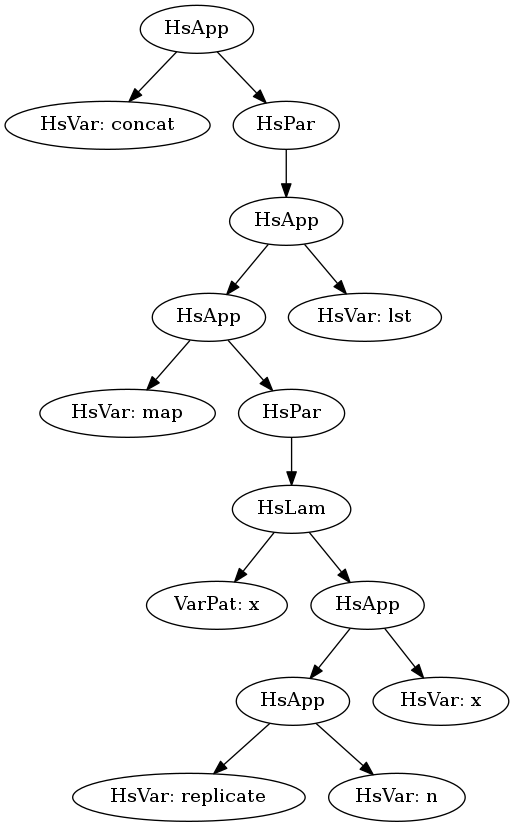
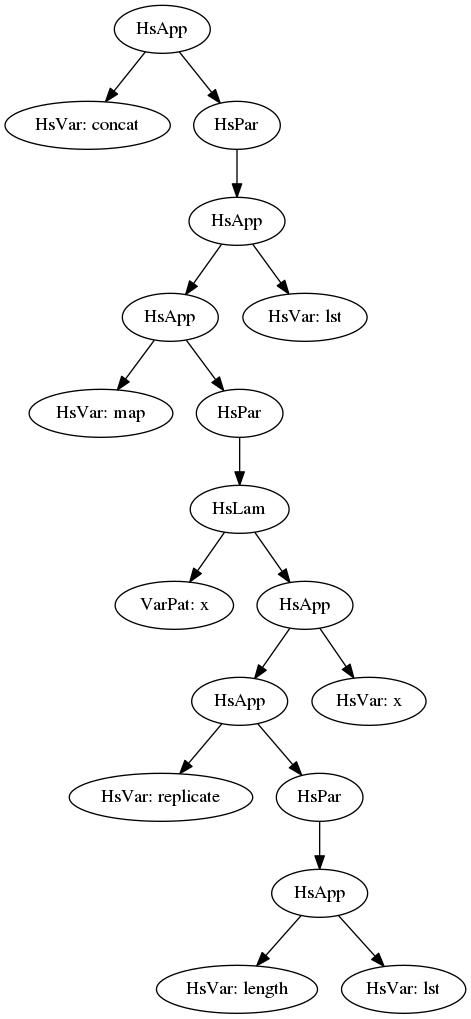
Finished draft of chapter 3. Editing in progress of chapter 2

diff --git a/thesis.tex b/thesis.tex
@@ -311,7 +311,7 @@ As was mentioned in Section~\ref{prog&Strafunski}, HaRe's dependencies have chan
 
 \subsection{The GHC API}
 
-Rather than being a monolithic executable, the Glasgow Haskell Compiler (GHC) is composed of several smaller components that each correspond to a separate compiler stage. The GHC executable consists of a lightweight main function that ties together the smaller components~\citep{ghcDesign}. These components are exposed to users  and this is what constitutes the GHC API.
+Rather than being a monolithic executable, the Glasgow Haskell Compiler (GHC) is composed of several smaller components that each correspond to a separate compiler stage. GHC's executable consists of a lightweight main function that ties together the smaller components~\citep{ghcDesign}. These components are exposed to users  and this is what constitutes the GHC API.
 
 \subsubsection{Compiler stages of GHC}\label{ghcStages}
 
@@ -324,33 +324,20 @@ Some of the major components and the order that GHC uses them are shown in figur
 	\caption{GHC Compiler stages. Adapted from \citep{ghcDesign}}
 \end{wrapfigure}
 
-The top level datatype for all of the GHC abstract syntax is \texttt{HsSyn}~\citep{ghcDesign}. \texttt{HsSyn} is parameterised by some identifier; each compiler stage produces a different type of identifier with the additional information that stage produces. For example the typechecker takes in an AST parameterised by \texttt{Name} and returns an AST parameterised by \texttt{Id} which is a \texttt{Name} with additional type information.
+The top level datatype for all of the GHC abstract syntax is \texttt{HsSyn} ~\citep{ghcDesign}. \texttt{HsSyn} is parameterised by some identifier type; each compiler stage produces a different type of identifier with the additional information that stage produces. For example the typechecker takes in an AST parameterised by \texttt{Name} and returns an AST parameterised by \texttt{Id} which is a \texttt{Name} with additional type information.
 
 \subsubsection{GHC's Name Types}
 
 There are five name types that GHC uses, they are:
 
 \begin{itemize}
-	\item \texttt{OccName}
-	\item \texttt{RdrName}
-	\item \texttt{Name}
-	\item \texttt{Id}
-	\item \texttt{Var}
+	\item \texttt{OccName} is the simplest type of name. It is just a wrapper around a \texttt{FastString} and an optional \texttt{NameSpace}. An \texttt{OccName} is contained in each of the other four identifier types.
+	\item \texttt{RdrName} names are produced by GHC's parser. \texttt{RdrName}s aren't much more that an \texttt{OccName} with optional module information if the source name has been qualified. 
+	\item \texttt{Name}s are produced by the renamer. A \texttt{Name} contains an \texttt{OccName} and a \texttt{Unique} that differentiates \texttt{Name}s that have the \texttt{OccName}. They have also had their scoping and binding resolved.
+	\item \texttt{Id} \& \texttt{Var} are the identifiers produced by the typechecker.\footnote{\texttt{Id} is just a synonym for \texttt{Var}.} These identifiers both contain a \texttt{Name}, a \texttt{Unique}, and a \texttt{Type} or \texttt{Kind}. An \texttt{Id} has a definite type whereas a \texttt{Var} may contain type variables that only have a kind.   
 \end{itemize}
 
-\texttt{OccName} is the simplest type of name it is really just a wrapper around a \texttt{FastString} and an optional \texttt{NameSpace}. It isn't produced by any the other four name types, rather an \texttt{OccName} is contained in each of the other names. An \texttt{RdrName} is the type that parameterises the parsed abstract  syntax. \texttt{RdrName}s aren't much more than an \texttt{OccName} and possibly a module name that indicates what module the name is defined in.
-
-The renamer produces an AST that uses \texttt{Name}s. \texttt{Name}s form the basis for the rest of the GHC's identifiers. A \texttt{Name} wraps \texttt{OccName} along with what type of name it is (user-defined or system-defined), where that \texttt{Name} is defined, and a unique integer so that names with the same \texttt{OccName} can be differentiated. 
-
-The other two name types, \texttt{Id} and \texttt{Var}, are actually synonyms.
-
-\begin{lstlisting}[frame=single,caption={Id's definition from Var.hs in~\cite{ghcHackage}}]
-type Id = Var
-\end{lstlisting}
-
-These types are essentially just typed \texttt{Name}s. The difference between \texttt{Id}s and \texttt{Var}s is that instead of a type \texttt{Vars} have a kind, and \texttt{Id}s contain more information about what sort of syntax element the \texttt{Id} refers to. 
-
-All these different types of names change throughout the compilation process but these names only parameterises the syntax tree, the shape~\comment{shape? form?} of the tree itself stays the same through compilation. 
+These identifier types change throughout the compilation process but these names only parameterise the syntax tree, the shape of the tree itself stays the same through compilation. 
 
 \subsubsection{GHC's syntax tree}
 GHC's abstract syntax is currently made up of over 90 data types. 
@@ -989,17 +976,66 @@ printEnumTree tree = let lst = toList (enumerate tree) in
 \end{lstlisting}
 
 \subsubsection{Example 3}
-Should use explode here
-\begin{lstlisting}
 
+The final case of this refactoring involves modifying both the result type and one (or more) of the parameters of the target function. This example will use the \texttt{explode} function from listing~\ref{explode} to refactor both its argument and result type to become \texttt{DList a}.
+
+\begin{lstlisting}[caption={The initial definition of \texttt{explode}},label=explode]
+explode :: [a] -> [a]
+explode lst = concat (map (\x -> replicate (length lst) x) lst)
 \end{lstlisting}
 
-\begin{itemize}
-\item print out the AST with the visualizer
-\item Go through the explode case when the first argument becomes DList
-\item Go through a case that is completely converted to DLists.
-\end{itemize}
+The abstract syntax tree of explode is in figure~\ref{explode}.
 
+\begin{figure}[!h]\label{explode}
+	\begin{center}
+		\includegraphics[scale=.5]{graphVis/Chapter3/explode.png}
+	\end{center}
+	\caption{\texttt{explodes}'s syntax tree}
+\end{figure}
+
+Much like the previous case where just the result type was modified the refactoring will start working on the syntax tree in a top down manner modifying the function definition to have the correct result type. The refactoring starts on the left subtree with the call to \texttt{concat :: Foldable t => t [a] -> [a]}. The equivalent difference list function is \texttt{concat :: Foldable t => t (DList a) -> DList a} since the result type of this version of \texttt{concat} is \texttt{DList a} the refactoring performs the switch. 
+
+After the change on the left subtree the refactoring needs to modify the right subtree so that is is of type \texttt{Foldable t => t DList a} rather than its current type of \texttt{Foldable t => t [a]}. The left most child of the right subtree is the call to \texttt{map :: (a -> b) -> [a] -> [b]}. The difference list equivalent map is appropriately typed \texttt{map :: (a -> b) -> DList a -> DList b}. Should the refactoring change this node to the difference list version? And if so what changes will be need to made to other subtrees?
+
+The refactoring will swap this node out if \texttt{Foldable t => t (DList a)} (the type of \texttt{concat}'s parameter) can be the same type as \texttt{DList b} (\texttt{map}'s result type); since \texttt{DList} is a member of the \texttt{Foldable} type class the swap can happen as long as the \texttt{b} type variable in \texttt{map}'s type is equal to \texttt{DList a}. This node's type after the swap and filling in the known type variables is: \texttt{map :: (a -> DList b) -> DList a -> DList (DList b)} this new type's arguments' types are both different from the original types so the refactoring will need to check both of these subtrees as well. 
+
+\begin{figure}[h]\label{explodeLam}
+	\begin{center}
+		\includegraphics[scale=.5]{graphVis/Chapter3/explodeLam.png}
+	\end{center}
+	\caption{The syntax tree of the lambda expression in \texttt{explode}.}
+\end{figure}
+
+Starting with the lambda expression (the syntax tree in figure~\ref{explodeLam}) the refactoring needs to modify it's type to become \texttt{a -> DList b}\footnote{\texttt{a} and \texttt{b} could be the same type.}. The current type of the lambda expression is \texttt{a -> [a]} so the refactoring only needs to modify its result type. The refactoring can then proceed to the left-most child of this expression, the call to \texttt{replicate :: Int -> a -> [a]}. The refactoring swaps this call for the difference list version of \texttt{replicate :: Int -> a -> DList a}. 
+
+If this refactoring were only modifying the result type of \texttt{explode} the refactoring would be done modifying the lambda expression because the type change affects the syntax tree in a top down manner. In this case, however, because  the type of \texttt{explode}'s argument was also changed so leaves of the syntax tree can also have changed type. This means that every subtree needs to be checked to ensure that it still type checks.
+
+The untouched sections of this expression's syntax tree are \texttt{replicate}'s arguments. The second argument is just the variable \texttt{x} which hasn't changed type. The first argument on the other hand is the expression \texttt{(length lst)} and \texttt{lst} is the argument of \texttt{explode} that is now a difference list rather than a normal list. Ideally the refactoring would rewrite this expression by replacing the normal list functions (\texttt{length} in this case) with difference list equivalents. Unfortunately there is no difference list version of \texttt{length} so the refactoring will have to introduce the abstraction function to convert back to a normal list to calculate its length. 
+
+The lambda expression has now been successfully refactored. The rewritten lambda expression is in listing~\ref{lamRef}.\footnote{To help clarify which functions are for lists and which are the difference list versions, all difference list functions have been qualified with the \texttt{DList} identifier.}
+
+\begin{lstlisting}[caption={The refactored lambda expression.},label=lamRef]
+(\x -> DList.replicate (length (DList.toList lst)) x)
+\end{lstlisting}
+
+Once refactoring the lambda expression is finished there is only a single node of \texttt{explode} that the refactoring hasn't touched yet, the use of \texttt{lst} as the second argument of \texttt{map}. When the refactoring swapped \texttt{map} for its difference list version it was able to determine the new type of both its arguments, \texttt{(a -> DList b)} for the first argument (the lambda expression) and \texttt{DList a} (\texttt{lst}). Fortunately because \texttt{lst} is a target of the refactoring its new type is \texttt{DList a} so this node can remain unchanged.
+
+
+\begin{lstlisting}[caption={The final refactored result of \texttt{explode}.},label=explodeFinal]
+import qualified Data.DList as DList
+import Data.DList (DList)
+
+explode :: DList a -> DList a
+explode lst = DList.concat (DList.map (\x -> DList.replicate (length (DList.toList lst)) x) lst)
+\end{lstlisting} 
+
+The final result of this case of the Hughes list refactoring is in listing~\ref{explodeFinal}.
+
+\section{Summary}
+
+This chapter has introduced the concept of data-driven refactorings for the object-oriented programming paradigm and described three of the data-driven refactorings developed for this thesis. The first, introducing a type signature, creates additional abstraction to better describe what types are representing. Generalising maybe takes code written for a specific type and generalises it so that it is applicable to more types. Finally the list to Hughes list refactoring replaces one type with another equivalent type. This refactoring allows a project to be retyped mid-development because it's not always clear from the beginning of a project what the correct data representation should be.
+
+The following chapters will expand on some of these ideas. The next chapter will describe another form of generalisation that rewrites monadic code into its equivalent applicative functor code. The applicative code can be much cleaner and descriptive in certain cases. It can also allow programmers to take advantage of a different way of executing their programs. Chapter~\ref{chap:monadification} discusses introducing effectful abstractions into pure code. This process helps a code base add additional features, such as shared state, mid-development.
 
 
 \chapter{Generalising Monads to Applicative}
@@ -1347,7 +1383,7 @@ parseMoney = M <$> parseCurrency <*> readWhole <*> readDecimal
 \end{lstlisting}
 
 
-\chapter{Introducing Effectful Abstractions}
+\chapter{Introducing Effectful Abstractions}\label{chap:monadification}
 Up to this point the data refactorings that have been discussed are changing abstractions that already existed in the source code. This chapter will explore refactorings that introduce effectful abstractions into pure code. In particular this chapter will focus on introducing monads and applicatives into pure code.
 
 The \texttt{Identity} monad is the monad the does not embody any computation strategy~\citep{identityMonad}. This means that any pure Haskell function could be refactored to be within the Identity monad. This refactoring can take in a set of functions and produce a corresponding set of functions with a monadic type. Take for example this definition of the Fibonacci numbers.

diff --git a/subset.tex b/subset.tex
@@ -1,5 +1,5 @@
 \documentclass{article} % Not really important
 \usepackage{pdfpages}
 \begin{document}
-\includepdf[pages={2}]{thesis.pdf}
+\includepdf[pages={30-59,83-88}]{thesis.pdf}
 \end{document}
